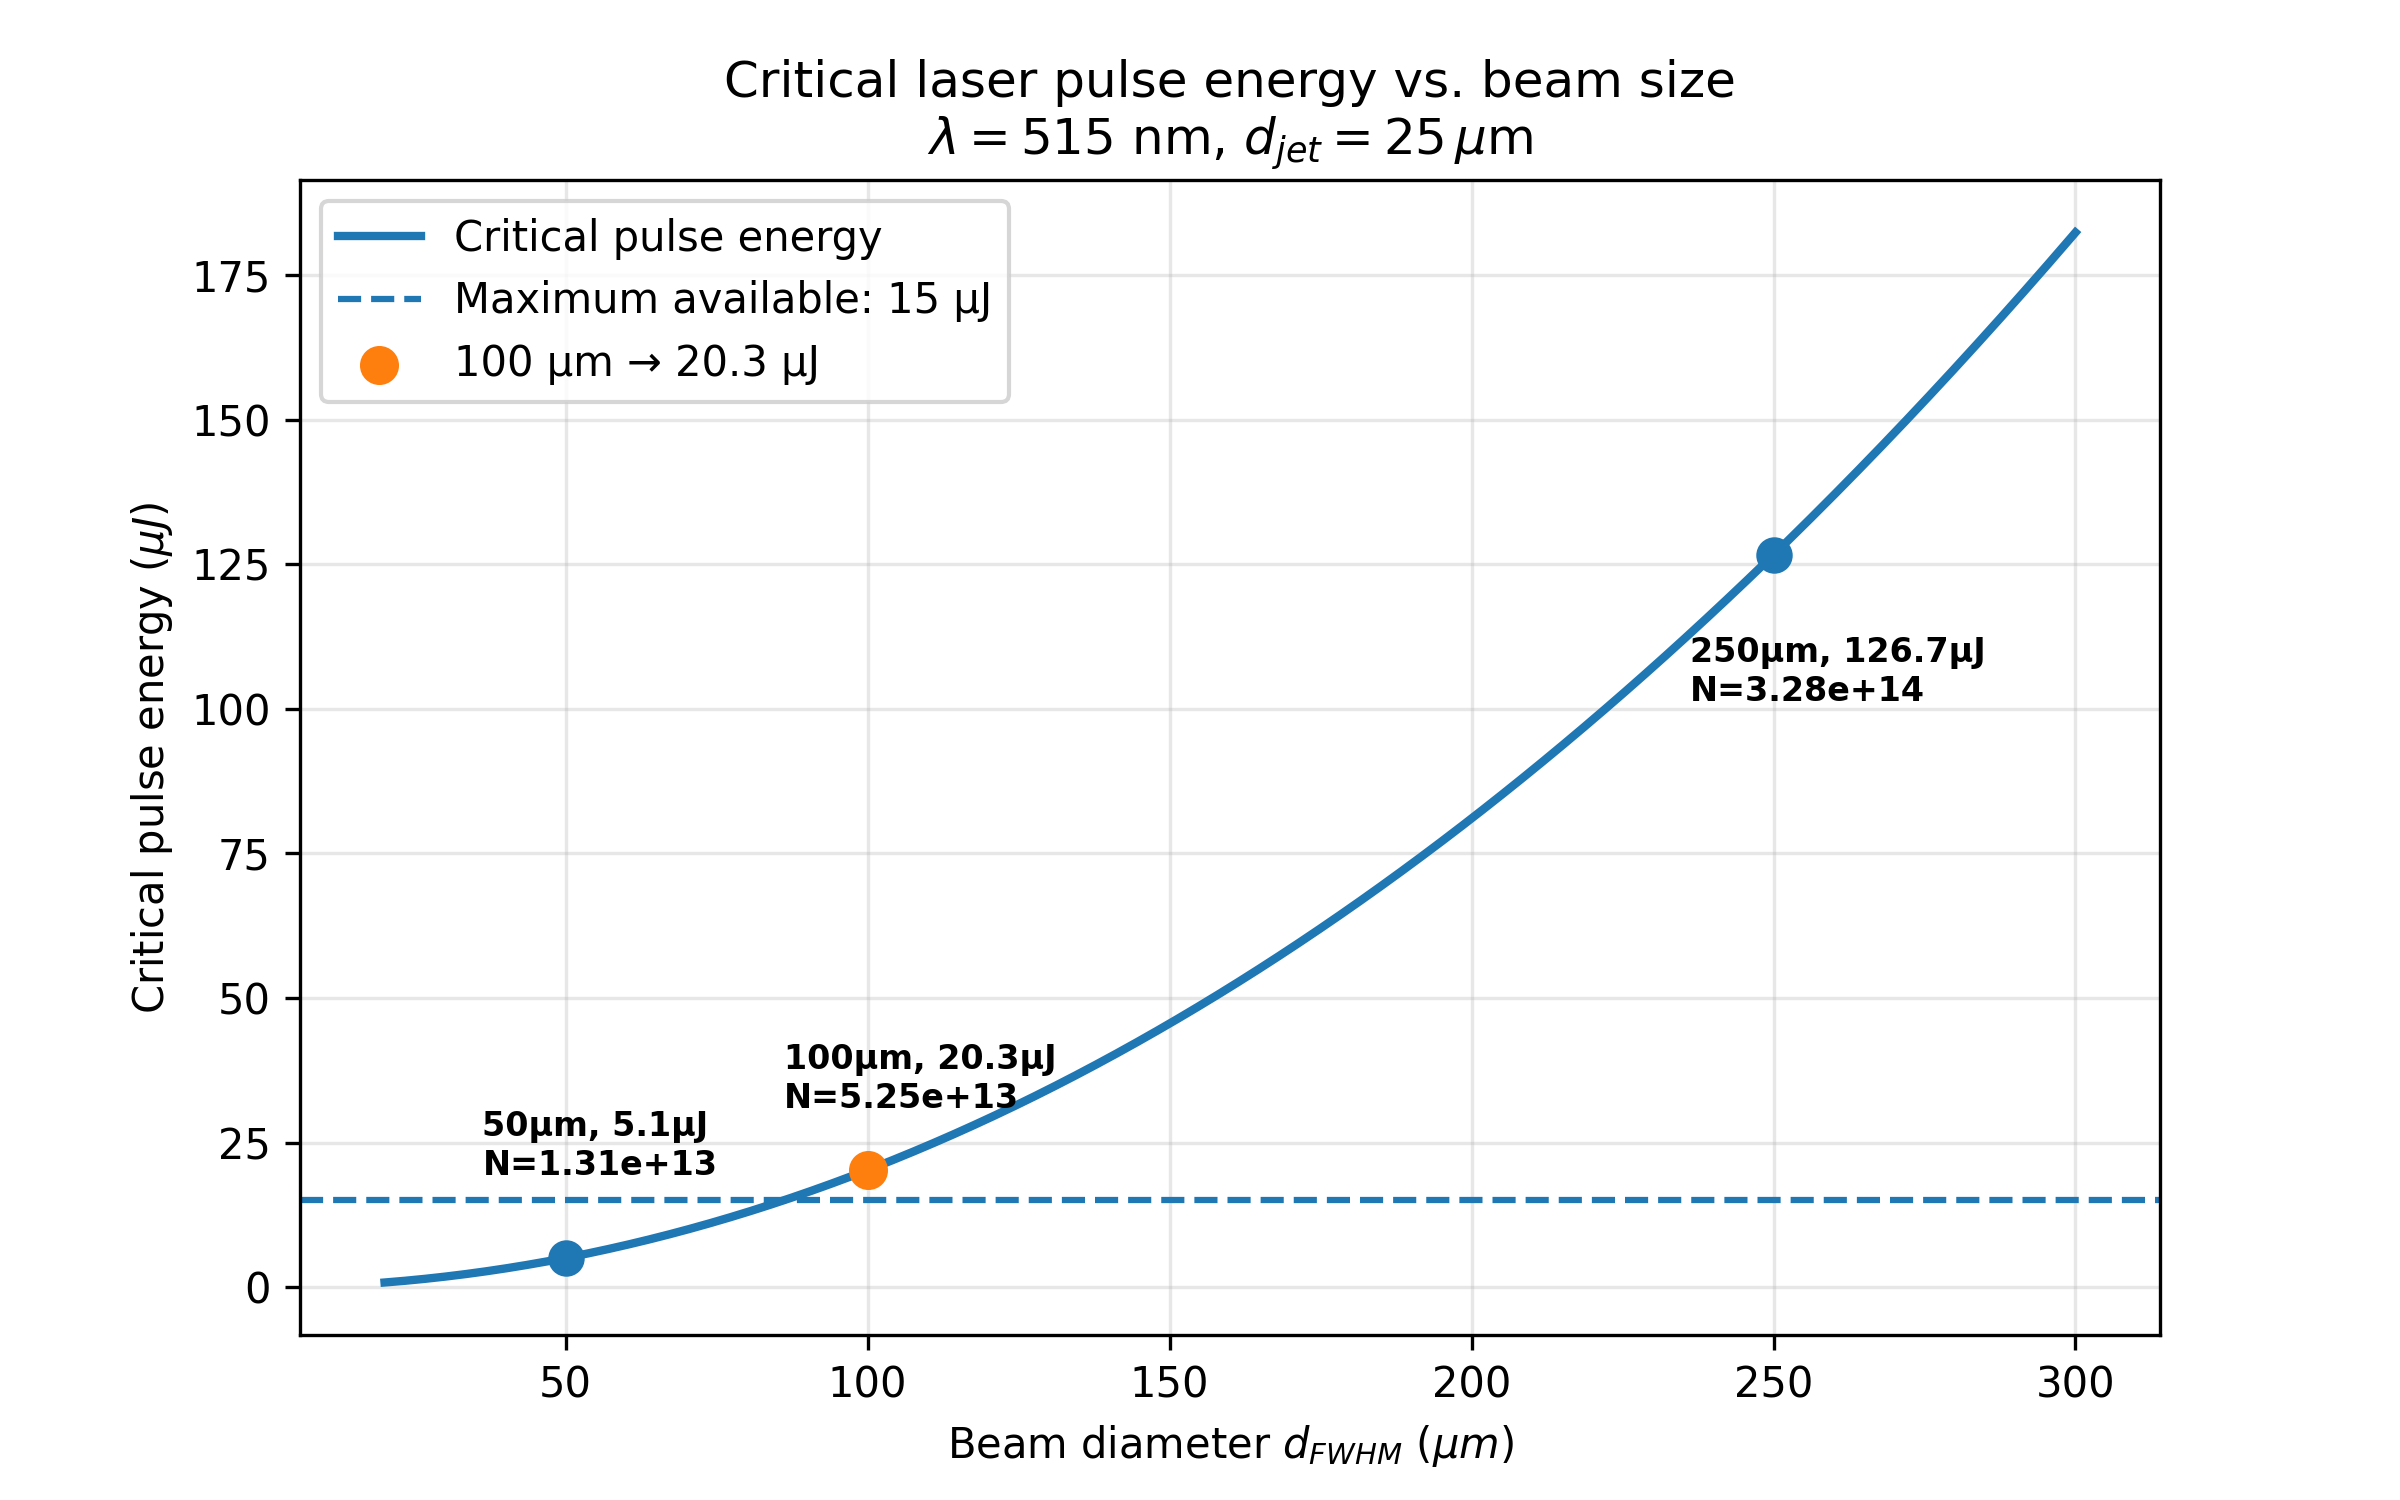
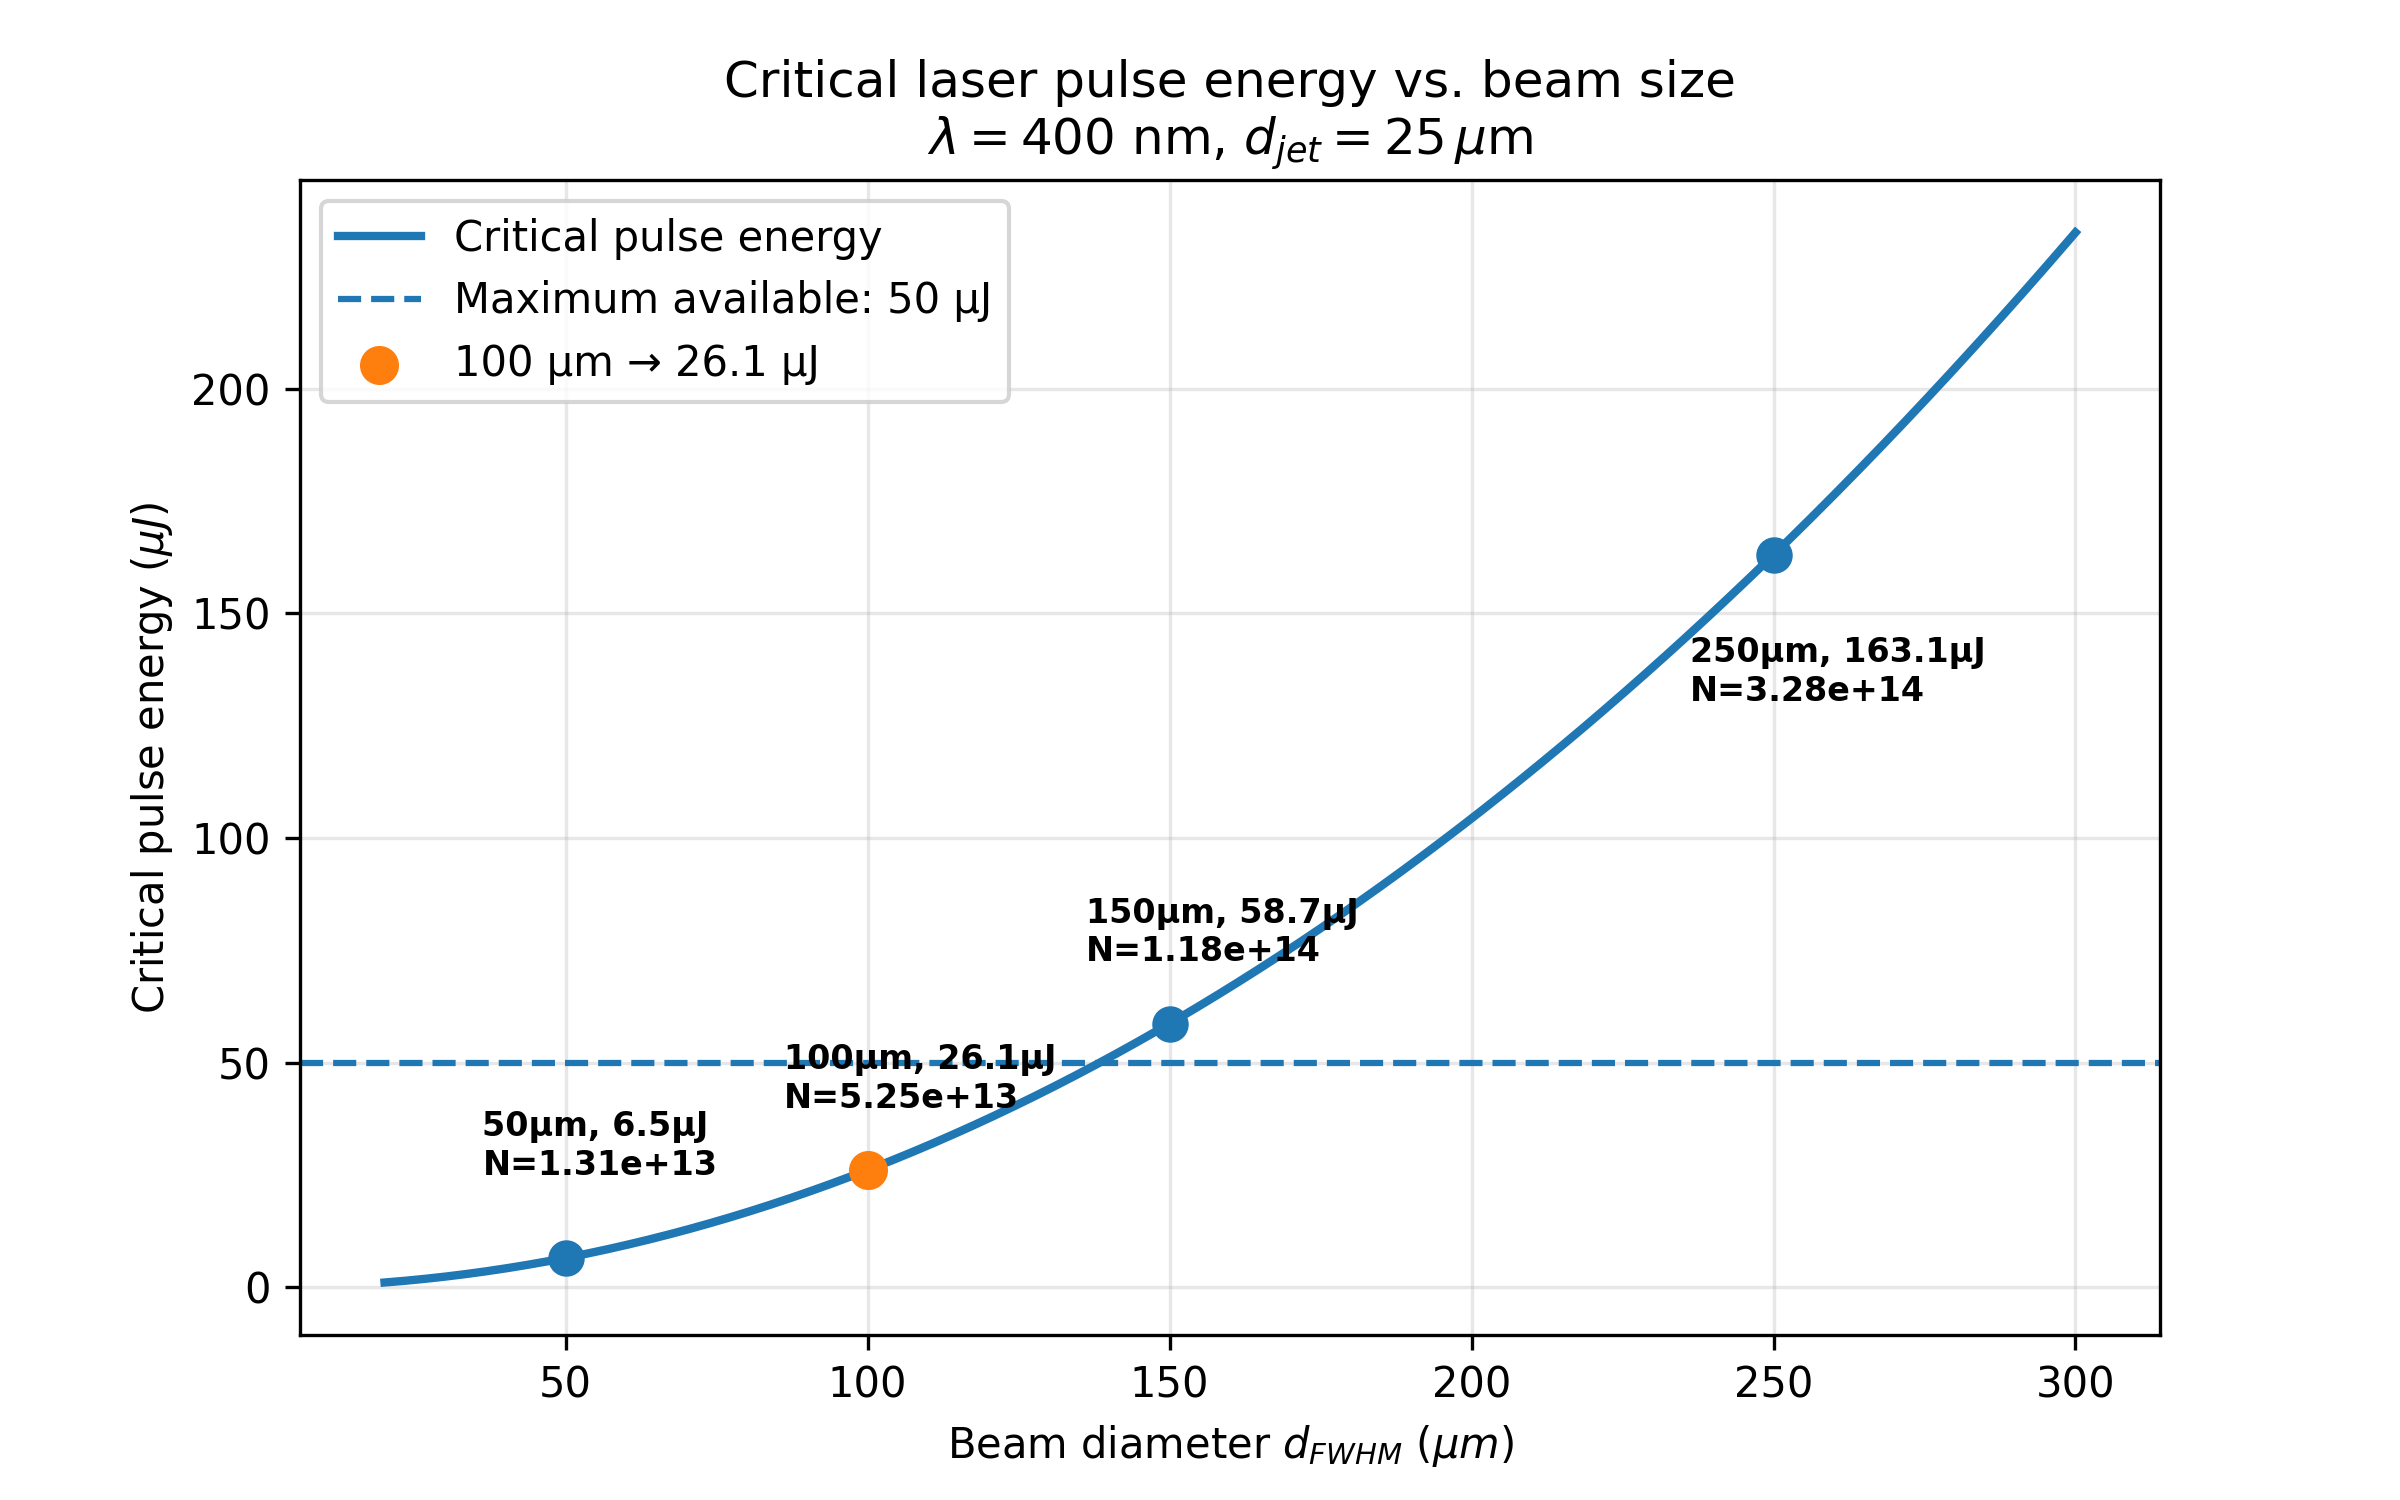
tag 2 fertig

diff --git a/P6/Daten/Preperatory Estimates/beam diameter.py b/P6/Daten/Preperatory Estimates/beam diameter.py
@@ -5,7 +5,7 @@ import matplotlib.pyplot as plt
 c_sol = 0.308           # mol/L
 N_A = 6.022e23          # 1/mol
 d_jet = 25e-6           # m
-lambda_laser = 515e-9   # m
+lambda_laser = 400e-9   # m
 h = 6.626e-34           # J s
 c_light = 2.998e8       # m/s
 # Photon energy
@@ -32,7 +32,7 @@ E_critical = N_molecules * E_photon
 E_critical_uJ = E_critical * 1e6
 
 # Comparison points
-beam_sizes = np.array([50, 100, 250])   # µm
+beam_sizes = np.array([50, 100, 150, 250])   # µm
 
 A = 1.133 * (beam_sizes * 1e-6)**2
 V = A * d_jet * 1000    # L
@@ -44,11 +44,12 @@ fig, ax = plt.subplots(figsize=(8, 5))
 ax.plot(d_beam,E_critical_uJ,linewidth=2,label='Critical pulse energy')
 
 # Available laser pulse energy
-ax.axhline(15,linestyle='--',linewidth=1.5,label='Maximum available: 15 µJ')
-ax.scatter(beam_sizes,E,s=60,zorder=3)
+ax.axhline(50,linestyle='--',linewidth=1.5,label='Maximum available: 50 µJ')
+ax.scatter(beam_sizes,E,s=60,zorder=4)
 offsets = [
     (-20, 20),    # 50 µm
     (-20, 15),    # 100 µm
+    (-20, 15),    # 150 µm
     (-20, -35)    # 250 µm
 ]
 for d, e, n, offset in zip(beam_sizes, E, N, offsets):
@@ -62,10 +63,10 @@ V_100 = A_100 * d_jet * 1000
 N_100 = c_sol * N_A * V_100
 E_100 = N_100 * E_photon * 1e6
 
-ax.scatter(d_selected,E_100,s=70,zorder=3,label=f'100 µm → {E_100:.1f} µJ')
+ax.scatter(d_selected,E_100,s=70,zorder=4,label=f'100 µm → {E_100:.1f} µJ')
 ax.set_xlabel('Beam diameter $d_{FWHM}$ ($\mu m$)')
 ax.set_ylabel('Critical pulse energy ($\mu J$)')
-ax.set_title('Critical laser pulse energy vs. beam size\n'r'$\lambda = 515$ nm, $d_{jet}=25\,\mu$m')
+ax.set_title('Critical laser pulse energy vs. beam size\n'r'$\lambda = 400$ nm, $d_{jet}=25\,\mu$m')
 
 ax.grid(True, alpha=0.3)
 ax.legend()

diff --git a/P6/Tag 3 - Performing the Experiment with Data Acquisition.md b/P6/Tag 3 - Performing the Experiment with Data Acquisition.md
@@ -1,0 +1,19 @@
+22. **Center the liquid jet on the X-ray beam**. 
+    To optimize the position of the liquid jet in the X-ray beam, maximize the intensity of elastic X-ray scattering. Use the Large Pixel Detector (LPD, Sec. 6.5.4) for this purpose. Note: the beam should be centered through the central hole beforehand.
+    Document your achieved maximum intensity well. When readjusting, for example after each restart of the software, you only have to return to this maximum intensity. 
+23. **Adjust the X-ray emission spectrometer.** 
+    Set the correct Bragg angle range for the selected crystal (ex. 21) and orient the detector perpendicular to the incoming dispersive spectrum. Make sure that you are in the line focus of the horizontally focusing emission beam. Check and optimize the cylindrical focusing using the 2D display of the Jungfrau detector, and document your geometric setting by suitable screenshots. 
+    **Download the 1D data and plot the Kβ1,3 spectrum of the ground state sample (laser off).** 
+24. Use the excitation laser with appropriated pulse energy (ex. 19), to prepare for your first pump-probe measurements: 
+    a) Adjust the focus of the excitation laser (ex. 18) to obtain your desired beam diameter in the sample plane. 
+	b) Adjust the spatial overlap between laser and X-ray beam. To do this, adjust the excitation laser beam by moving the focusing lens in x and y direction. 
+	c) Document the profile of the excitation laser and the X-ray beam on the sample with the X-ray microscope. To do this, alternatingly move in strong X-ray attenuators to turn off the x-ray beam, and set the laser energy to zero to measure only the x-ray beam. Afterward, you can also take an image of both pulses together (with appropriate laser and x-ray intensity levels). 
+25. **Record your first time-resolved spectra:**
+    a) Set the time delay to 100 ps. With this time delay, the laser pulse strikes the sample surely before the X-ray pulse arrives, and still not too early with respect to the expected excited state lifetime. Even if we do not yet know the exact time zero between the laser and X-ray pulses, it has already been (pre)determined to within a few ps. 
+    b) Record an XES spectrum (1D, not the difference) with the laser on and a spectrum with the laser off. Plot the laser-on and laser-off together. Normalize the spectra to the area beforehand. 
+    c) Now also save a difference spectrum. Is a transient signal recognizable? If so, briefly describe the curve and identify any striking features. 
+26. Verify the optimum spatial overlap, which preset with the X-Ray Eye, based on the intensity of the pump-probe signal. Define a representative figure of merit (FOM) for the intensity of the timeresolved transient. Plot this figure of merit as a function of laser position, once along the x and once along the y directions. 
+27. Plot this FOM also as a function of the excitation laser intensity. 
+28. Measure the FOM as a function of the time delay between pump and probe pulses. Plot these and explain the measured curve(s). 
+29. Which measurement range and step sizes of the time delay are suitable for detecting the individual steps (or the individual intermediate states) of the photophysical/photochemical reaction of [Fe(bipy)3]2+? 
+    **Record difference spectra in a series of meaningful pump-probe delays and with suitable signal quality**.

diff --git a/P6/Tag 2 - Preparatory Estimates for the Experiment.md b/P6/Tag 2 - Preparatory Estimates for the Experiment.md
@@ -90,12 +90,12 @@
     **Calculate the concentration c of the solution for these three wavelengths for a desired optical density OD = 1 and a liquid jet thickness of d=25 μm.** 
     Note: The optical density is given by OD = $\epsilon$ · c · d (Sec. 3.1 and exercise 13), where d is the thickness of the liquid beam and (λ) is the wavelength-dependent extinction coefficient of [Fe(bipy)3]2+ in water. 
 		$\epsilon*c*d=1$, $c_{[Fe(bipy)_3]Cl_2 \cdot 3H_2O} = 0,308 \frac{mol}{L}$, $d=25\mu m$
-		$\epsilon(\lambda)$ aus Abb 3.3 geschätzt
-		355nm: $\epsilon(355nm)=12000\, mol^{-1}cm^{-1}$, $c=\frac{1}{\epsilon \cdot d}= \frac{1}{12000\, mol^{-1}cm^{-1} \cdot 25 \cdot10^{-2}cm}$
+		$\epsilon(\lambda)$ aus Abb 3.3 geschätzt mit $M=\frac{mol}{L}$
+		355nm: $\epsilon(355nm)=12000\, M^{-1}cm^{-1}$, $c=\frac{1}{\epsilon \cdot d}= \frac{1}{12000\, (\frac{mol}{L})^{-1}cm^{-1} \cdot 25 \cdot10^{-2}cm}$
 			$c_{355}=0{,}0333\text{ mol/L}$
-		400nm: $\epsilon(400nm)=4000\, mol^{-1}cm^{-1}$, $c=\frac{1}{\epsilon \cdot d}= \frac{1}{4000\, mol^{-1}cm^{-1} \cdot 25 \cdot10^{-2}cm}$
+		400nm: $\epsilon(400nm)=4000\, M^{-1}cm^{-1}$, $c=\frac{1}{\epsilon \cdot d}= \frac{1}{4000\, (\frac{mol}{L})^{-1}cm^{-1} \cdot 25 \cdot10^{-2}cm}$
 			$c_{400}=0{,}100\text{ mol/L}$
-		515nm: $\epsilon(515nm)=8000\, mol^{-1}cm^{-1}$, $c=\frac{1}{\epsilon \cdot d}= \frac{1}{8000\, mol^{-1}cm^{-1} \cdot 25 \cdot10^{-5}cm}$
+		515nm: $\epsilon(515nm)=8000\, M^{-1}cm^{-1}$, $c=\frac{1}{\epsilon \cdot d}= \frac{1}{8000\, (\frac{mol}{L})^{-1}cm^{-1} \cdot 25 \cdot10^{-5}cm}$
 			$c_{515}=0{,}050\text{ mol/L}$
 		vegleich zu $c_{solution}=0,308 \, mol/L$
 16. **Select a laser excitation wavelength and justify your choice. The following pulse energies are available: 5 μJ (355 nm), 15 μJ (515 nm) and 50 μJ (400 nm).** 
@@ -140,11 +140,17 @@
 		1$00 \mu m$, $5{,}26 \times 10^{13}$, $20{,}3\ \mu\text{J}$
 			bei 515 nm steht eine max Pulsenergie 15 µJ zur Verfügung: bei einem Spot-Durchmesser von 100 µm knapp unterhalb der berechneten Sättigungsgrenze (~20,3 µJ)
 			also maximale Anregungseffizienz ohne Multiphotonen-Absorptionen :)
+			Multiphoton Absorption ist was bisschen anderes
+				1 photon pro wirkungsquerschnitt
 		Anternativen bisschen whack: 
 		Spot-Durchmesser $d_{\text{laser}}$: $50 \mu m$ / $250 \mu m$, Moleküle im Volumen:$1{,}31 \times 10^{13}$ / $1{,}18 \times 10^{14}$, Kritische Pulsenergie: $5{,}1\ \mu\text{J}$ / $45{,}5\ \mu\text{J}$
+		Änderung zu $\lambda=400nm$, weil reasons (look ex 16)
+			$d_{laser}=150\mu m$ ($E_{Puls}=58,7\mu J$) chosen weil $E_{\lambda}=50\mu J$
 	c) **Verify your calculation with the calculator built into the vLab / Laser. Document this with a screenshot**. 
-		Laser Power: Pulse Energy * Rep Rate $=15\mu J*0,55MHz=8,25W$
+		Laser Power: 
+			Pulse Energy * Rep Rate $=15\mu J*0,55MHz=8,25W$
 			bzw $=20,3\mu J*0,55MHz=11,625W$ 
+			bei $\lambda=400nm$: $P=27,5W$ mit Rep Rate $=0,55MHz$ (Wir arbeiten weiter mit dem 400nm)
 		Zahlen Stimmen Überein, bei Watt mit $E_{Puls_{eff}}$
 		sonst halt größenordnung passen, aber bisschen anders, weil Puls Energie nur $15\mu J$ kann, rest ist Overshooting, für Jitter Kompensation?
 20. Two X-ray crystal spectrometers are available at the FXE instrument of European XFEL: one von Hamos and one Johann spectrometer (Sec. 6.5.2). 
